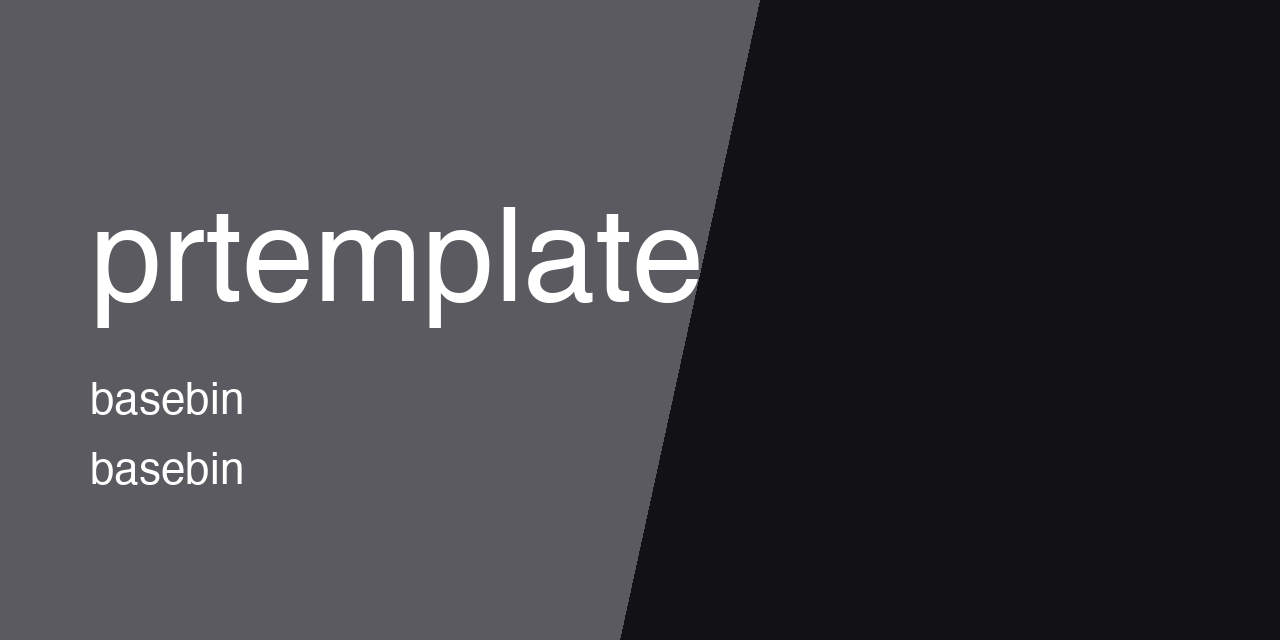
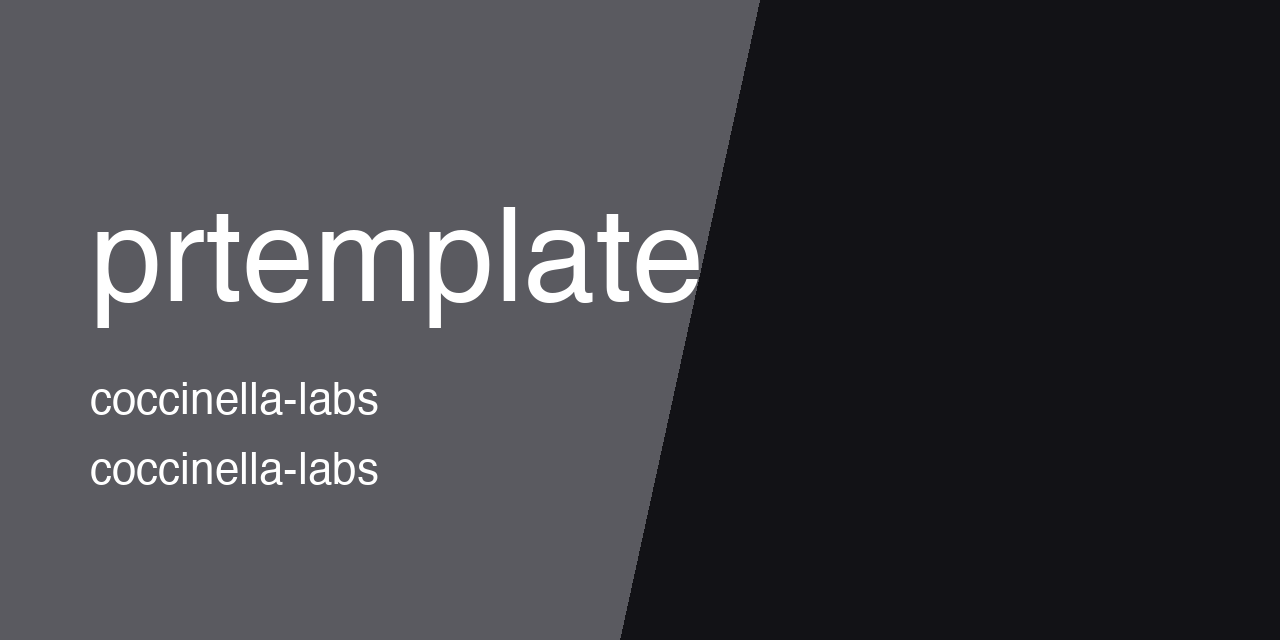
[docs] move thumbnail to coccinella-labs

Changed region(s): [[0.0625, 0.5938, 0.3125, 0.6562], [0.0625, 0.7188, 0.3125, 0.7812]]

diff --git a/README.md b/README.md
@@ -1,5 +1,5 @@
 <p align="center">
-  <img src="https://raw.githubusercontent.com/basebin/prtemplate/main/.github/assets/thumbnail.png" alt="prtemplate" width="100%">
+  <img src="https://raw.githubusercontent.com/Coccinella-Labs/prtemplate/main/.github/assets/thumbnail.png" alt="prtemplate" width="100%">
 </p>
 
 # small-pr-template
